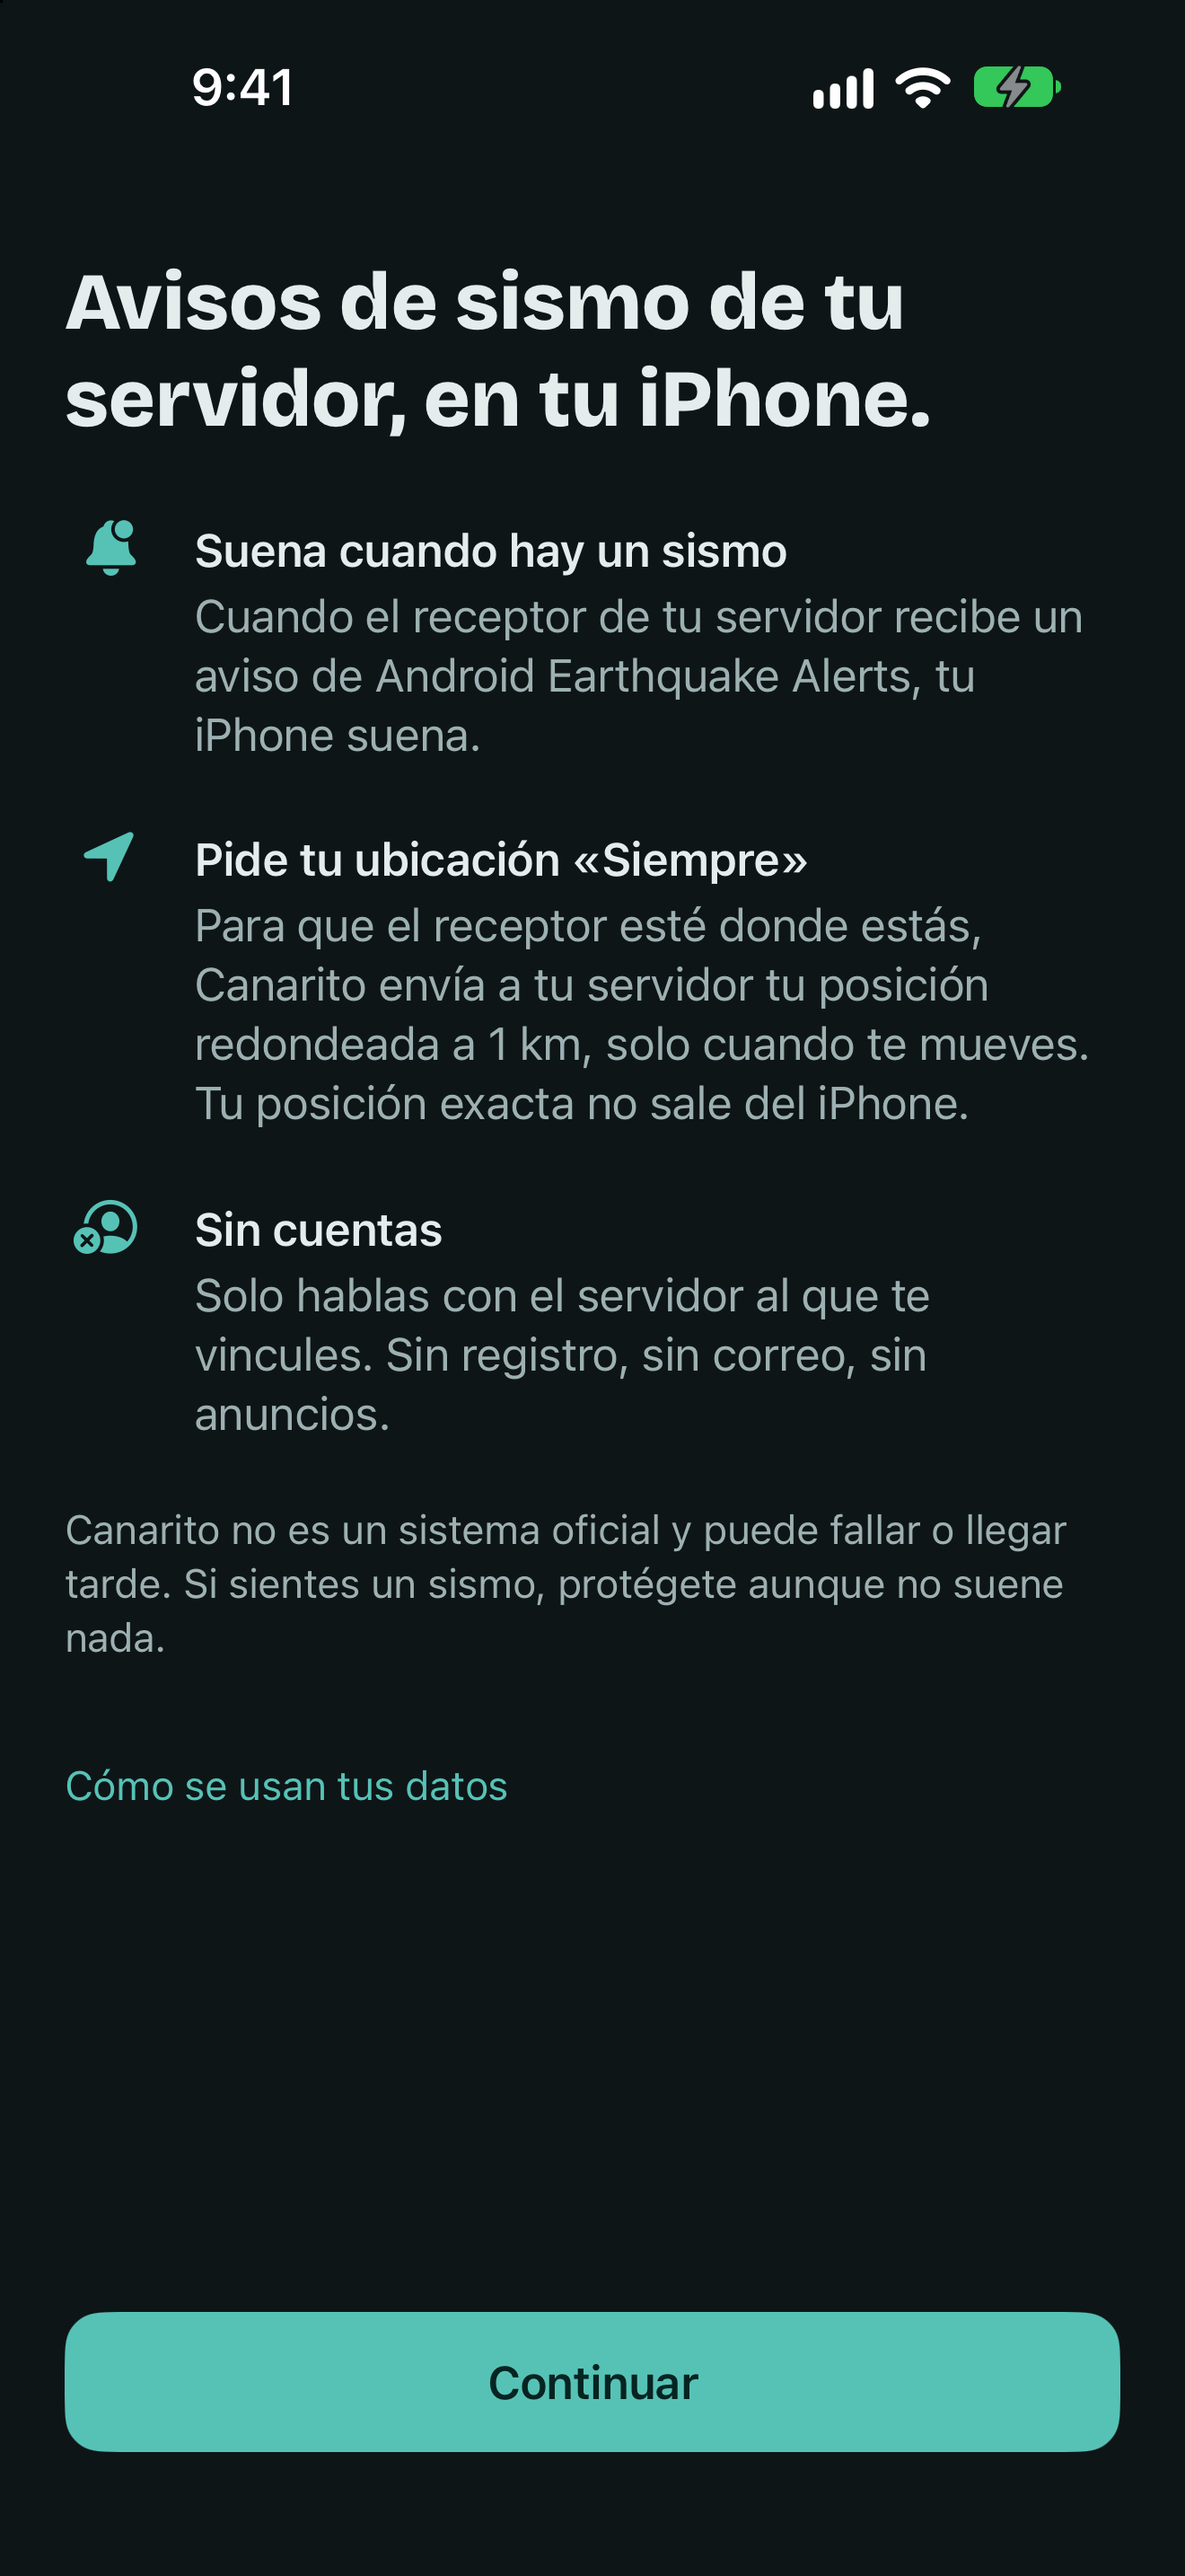
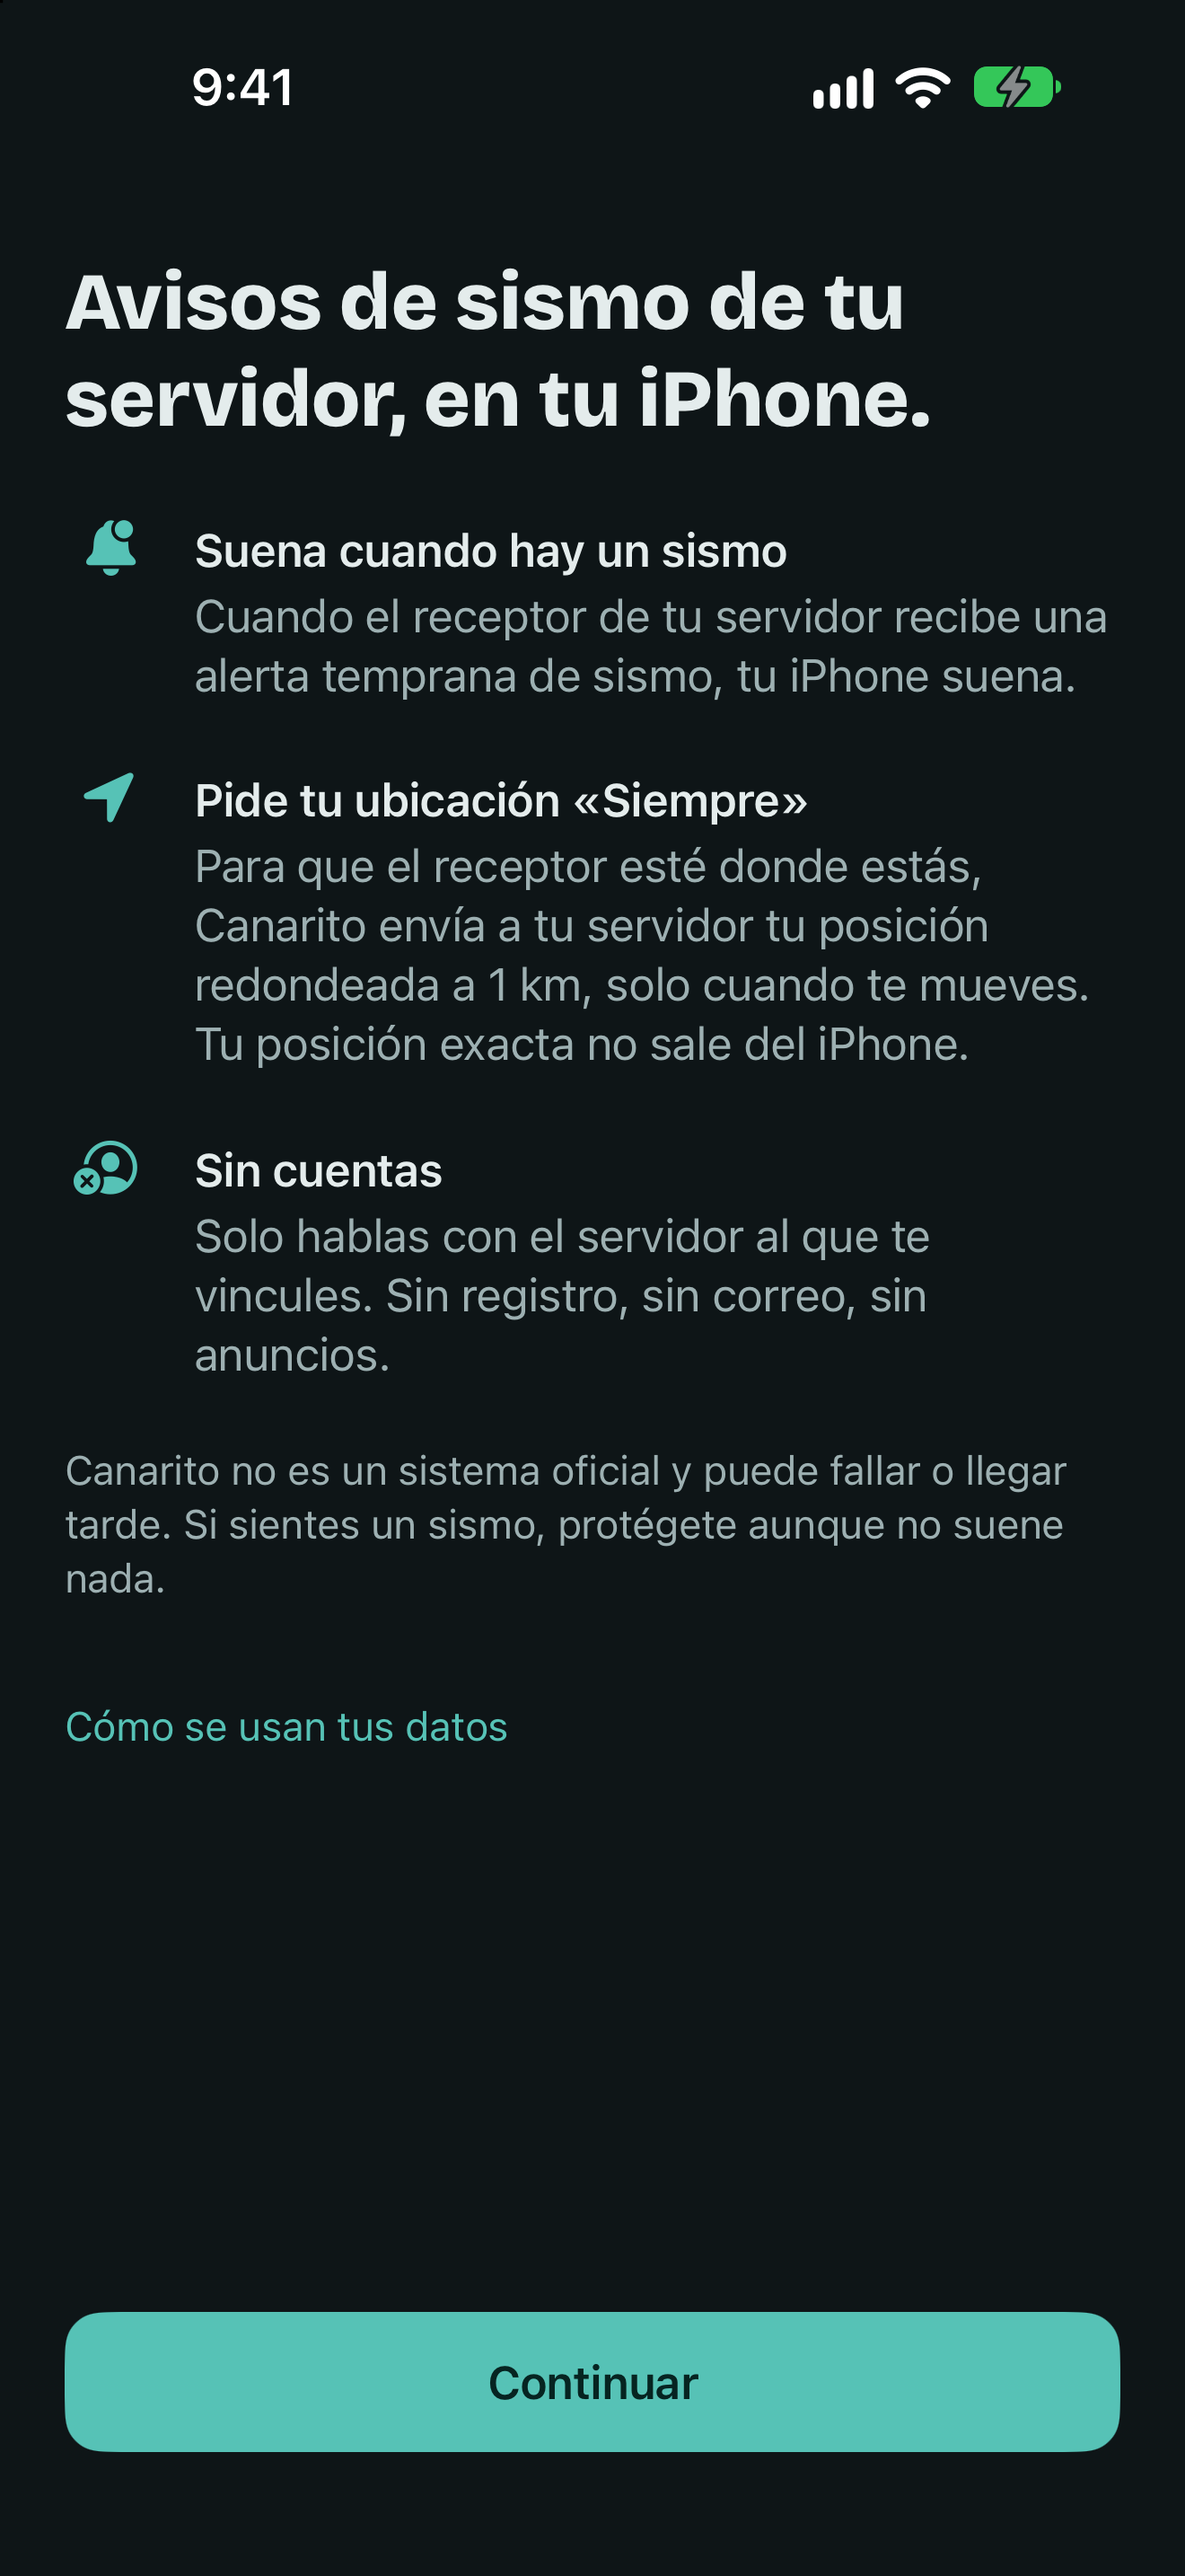
iPhone app build 5: intro text and screenshots without another platform's name; store check fails on platform names

diff --git a/ios/Canarito/IntroView.swift b/ios/Canarito/IntroView.swift
@@ -14,7 +14,7 @@ struct IntroView: View {
                 Text("Avisos de sismo de tu servidor, en tu iPhone.").displayTitle(size: 30, relativeTo: .title)
                     .accessibilityAddTraits(.isHeader).padding(.top, 32)
                 row("bell.badge.fill", "Suena cuando hay un sismo",
-                    "Cuando el receptor de tu servidor recibe un aviso de Android Earthquake Alerts, tu iPhone suena.")
+                    "Cuando el receptor de tu servidor recibe una alerta temprana de sismo, tu iPhone suena.")
                 row("location.fill", "Pide tu ubicación «Siempre»",
                     "Para que el receptor esté donde estás, Canarito envía a tu servidor tu posición redondeada a 1 km, solo cuando te mueves. Tu posición exacta no sale del iPhone.")
                 row("person.crop.circle.badge.xmark", "Sin cuentas",

diff --git a/ios/appstore/check.py b/ios/appstore/check.py
@@ -3,6 +3,8 @@
 import pathlib, re, sys
 
 LIMITS = {"Name": 30, "Subtitle": 30, "Promotional text": 170, "Keywords": 100, "Description": 4000, "What's New": 4000}
+# Guideline 2.3.10: no other mobile platform in the app or its store page.
+PLATFORMS = re.compile(r"android|google|play store|samsung|huawei", re.I)
 BANNED = ["delve", "leverage", "robust", "seamless", "streamline", "empower", "comprehensive", "cutting-edge", "—"]
 failed = False
 for path in sorted(pathlib.Path(__file__).parent.glob("*-*.md")):
@@ -15,4 +17,10 @@ for path in sorted(pathlib.Path(__file__).parent.glob("*-*.md")):
     for word in BANNED:
         if word in text.lower():
             print(f"{path.name}: slop word {word!r}"); failed = True
+app_texts = [*pathlib.Path(__file__).parent.glob("*-*.md"), *(pathlib.Path(__file__).parent.parent / "Canarito").rglob("*.swift"),
+             *(pathlib.Path(__file__).parent.parent / "Canarito").rglob("*.xcstrings")]
+for path in app_texts:
+    for number, line in enumerate(path.read_text().splitlines(), 1):
+        if PLATFORMS.search(line) and not line.lstrip().startswith("//"):
+            print(f"{path.name}:{number}: names another platform (guideline 2.3.10)"); failed = True
 sys.exit(1 if failed else 0)

diff --git a/ios/tools/translations_en.py b/ios/tools/translations_en.py
@@ -26,8 +26,8 @@ EN = {
     "Comprueba tus avisos de sismo": "Check your earthquake alerts",
     "Con un modo de Concentración activo, el aviso puede llegar en silencio.": "With a Focus on, the alert may arrive silently.",
     "Continuar": "Continue",
-    "Cuando el receptor de tu servidor recibe un aviso de Android Earthquake Alerts, tu iPhone suena.":
-        "When your server's receptor gets an Android Earthquake Alerts warning, your iPhone sounds.",
+    "Cuando el receptor de tu servidor recibe una alerta temprana de sismo, tu iPhone suena.":
+        "When your server's receptor gets an earthquake early warning, your iPhone sounds.",
     "Cuando pare el temblor": "When the shaking stops",
     "Cómo se usan tus datos": "How your data is used",
     "Dejarás de recibir avisos de este servidor.": "You will stop receiving alerts from this server.",
